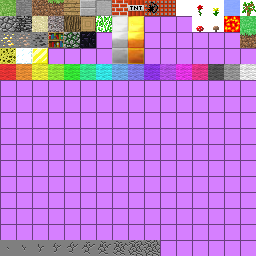
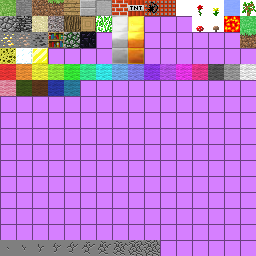
Added new blocks: LightPink, ForestGreen, Brown, DeepBlue and Turquoise
Former-commit-id: 2b6c51bdc26743f051c8134c96931c92ab3765bb

Changed region(s): [[0.0, 0.3125, 0.3125, 0.375]]

diff --git a/src/main/java/com/mojang/minecraft/level/tile/Block.java b/src/main/java/com/mojang/minecraft/level/tile/Block.java
@@ -640,6 +640,36 @@ name|Block
 name|WEB
 decl_stmt|;
 specifier|public
+specifier|static
+specifier|final
+name|Block
+name|LIGHT_PINK_WOOL
+decl_stmt|;
+specifier|public
+specifier|static
+specifier|final
+name|Block
+name|FOREST_GREEN_WOOL
+decl_stmt|;
+specifier|public
+specifier|static
+specifier|final
+name|Block
+name|BROWN_WOOL
+decl_stmt|;
+specifier|public
+specifier|static
+specifier|final
+name|Block
+name|DEEP_BLUE_WOOL
+decl_stmt|;
+specifier|public
+specifier|static
+specifier|final
+name|Block
+name|TURQUOISE_WOOL
+decl_stmt|;
+specifier|public
 name|int
 name|textureId
 decl_stmt|;
@@ -6284,6 +6314,131 @@ argument_list|,
 literal|1.0F
 argument_list|,
 literal|0.0F
+argument_list|)
+expr_stmt|;
+name|LIGHT_PINK_WOOL
+operator|=
+operator|(
+operator|new
+name|Block
+argument_list|(
+literal|54
+argument_list|,
+literal|80
+argument_list|)
+operator|)
+operator|.
+name|setData
+argument_list|(
+name|Tile$SoundType
+operator|.
+name|cloth
+argument_list|,
+literal|1.0F
+argument_list|,
+literal|1.0F
+argument_list|,
+literal|0.8F
+argument_list|)
+expr_stmt|;
+name|FOREST_GREEN_WOOL
+operator|=
+operator|(
+operator|new
+name|Block
+argument_list|(
+literal|55
+argument_list|,
+literal|81
+argument_list|)
+operator|)
+operator|.
+name|setData
+argument_list|(
+name|Tile$SoundType
+operator|.
+name|cloth
+argument_list|,
+literal|1.0F
+argument_list|,
+literal|1.0F
+argument_list|,
+literal|0.8F
+argument_list|)
+expr_stmt|;
+name|BROWN_WOOL
+operator|=
+operator|(
+operator|new
+name|Block
+argument_list|(
+literal|56
+argument_list|,
+literal|82
+argument_list|)
+operator|)
+operator|.
+name|setData
+argument_list|(
+name|Tile$SoundType
+operator|.
+name|cloth
+argument_list|,
+literal|1.0F
+argument_list|,
+literal|1.0F
+argument_list|,
+literal|0.8F
+argument_list|)
+expr_stmt|;
+name|DEEP_BLUE_WOOL
+operator|=
+operator|(
+operator|new
+name|Block
+argument_list|(
+literal|57
+argument_list|,
+literal|83
+argument_list|)
+operator|)
+operator|.
+name|setData
+argument_list|(
+name|Tile$SoundType
+operator|.
+name|cloth
+argument_list|,
+literal|1.0F
+argument_list|,
+literal|1.0F
+argument_list|,
+literal|0.8F
+argument_list|)
+expr_stmt|;
+name|TURQUOISE_WOOL
+operator|=
+operator|(
+operator|new
+name|Block
+argument_list|(
+literal|58
+argument_list|,
+literal|84
+argument_list|)
+operator|)
+operator|.
+name|setData
+argument_list|(
+name|Tile$SoundType
+operator|.
+name|cloth
+argument_list|,
+literal|1.0F
+argument_list|,
+literal|1.0F
+argument_list|,
+literal|0.8F
 argument_list|)
 expr_stmt|;
 block|}

diff --git a/src/main/java/com/mojang/minecraft/level/tile/BlockID.java b/src/main/java/com/mojang/minecraft/level/tile/BlockID.java
@@ -293,6 +293,31 @@ name|SpiderWeb
 argument_list|(
 literal|53
 argument_list|)
+block|,
+name|LightPink
+argument_list|(
+literal|54
+argument_list|)
+block|,
+name|ForestGreen
+argument_list|(
+literal|55
+argument_list|)
+block|,
+name|Brown
+argument_list|(
+literal|56
+argument_list|)
+block|,
+name|DeepBlue
+argument_list|(
+literal|57
+argument_list|)
+block|,
+name|Turquoise
+argument_list|(
+literal|58
+argument_list|)
 block|;
 specifier|private
 name|int
